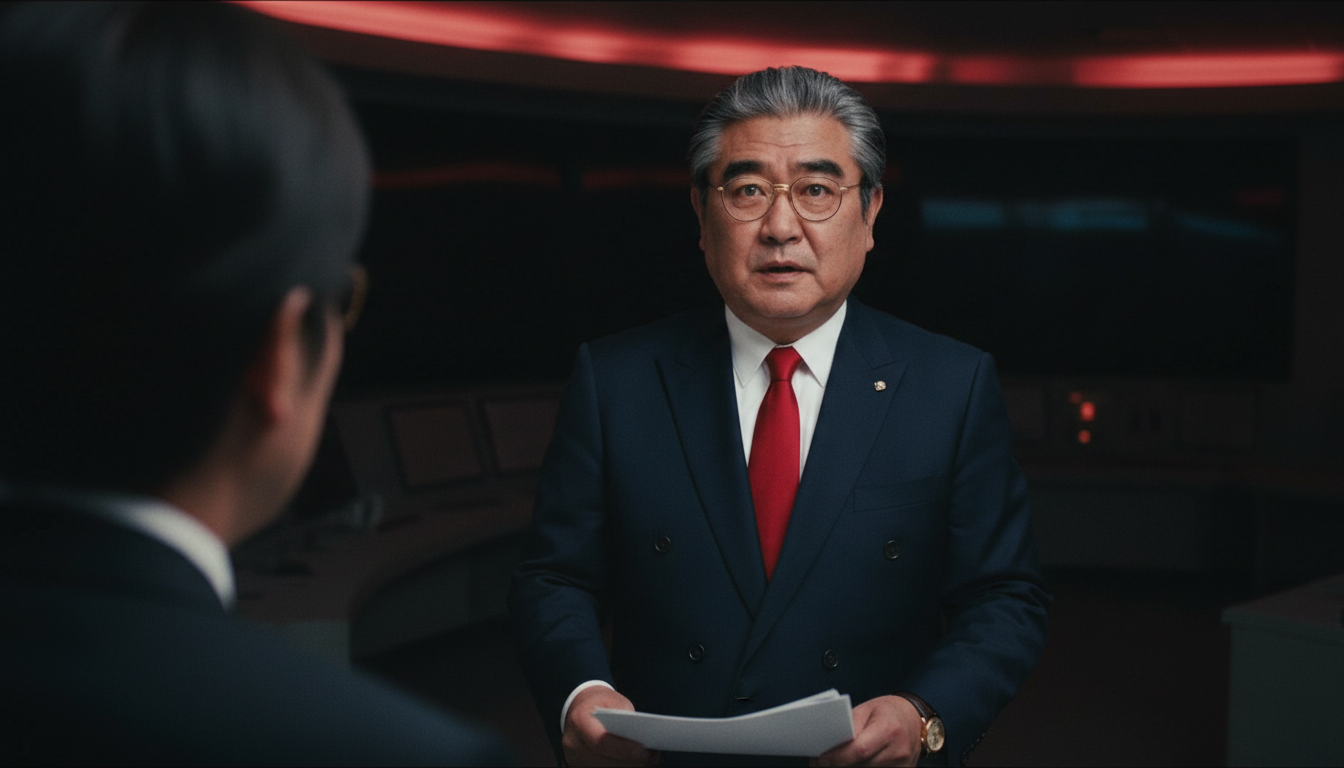
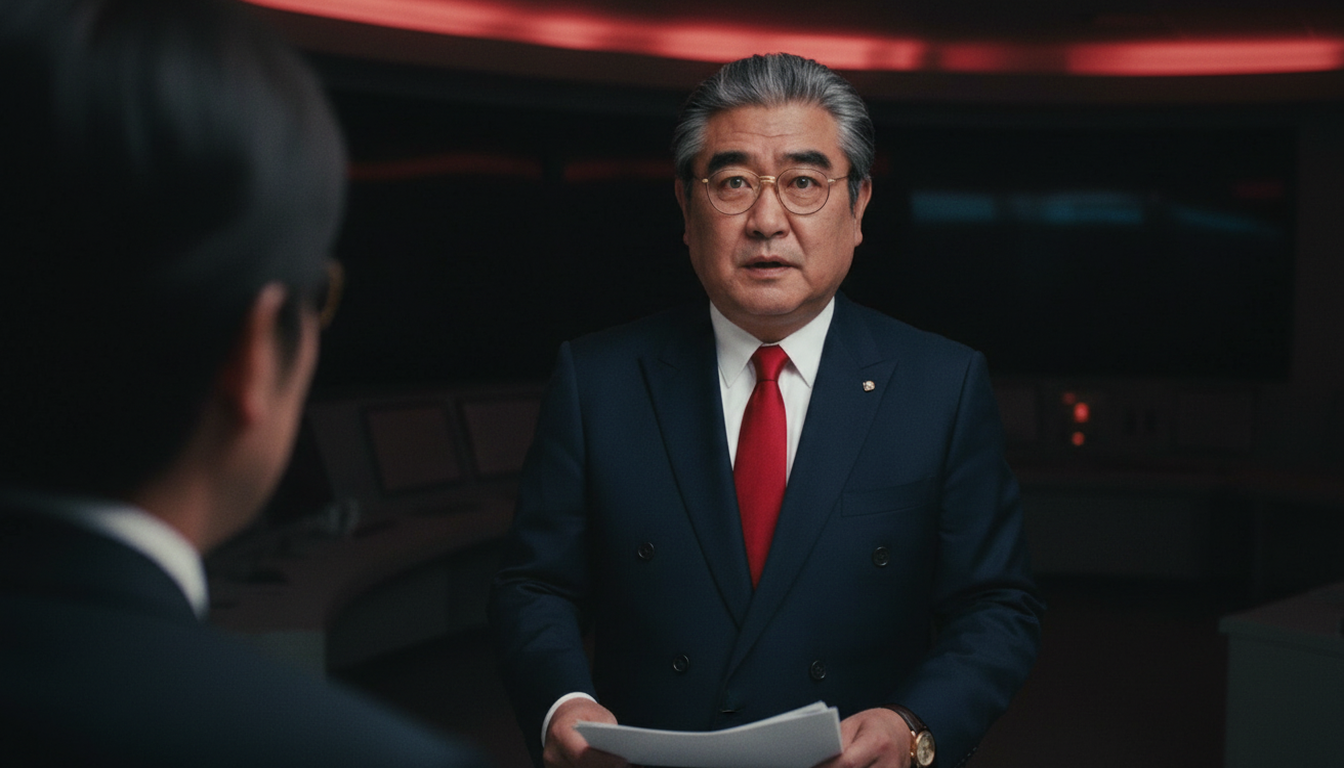
작품② 키프레임 r3: 원경으로 나온 립싱크 4컷 근접 재생성

diff --git a/scripts/build_tsuki_keyframes.py b/scripts/build_tsuki_keyframes.py
@@ -67,6 +67,10 @@ LIGHT_NOTE = {
 }
 # 키프레임 a 검수(2026-10-15): 감정이 약하거나 반대로 나온 컷 — 표정을 문장 맨 앞에 못 박아 재생성
 EMO_OVERRIDE = {
+    "S12d": "FRAMING LOCKED: medium close-up, camera about 1.2 metres from Hikaru, his head and shoulders fill the centre, face about one third of the frame height; Sakura's blurred shoulder at the left edge.",
+    "S19c": "FRAMING LOCKED: medium close-up, camera about 1.5 metres from Shinoda; his head and shoulders fill the centre of the frame, face about one third of the frame height, Washio's blurred shoulder at the right edge; NOT a wide shot of the room.",
+    "S19i": "FRAMING LOCKED: medium close-up from slightly above, camera about 1.5 metres from Shinoda standing; his head and shoulders fill the centre, face about one third of the frame height, Washio's blurred head at the lower right edge; NOT a wide shot.",
+    "S19m": "FRAMING LOCKED: medium close-up from a low angle, camera about 1.5 metres from Shinoda standing and closing his coat; his head and shoulders fill the centre, face about one third of the frame height, the kneeling Washio's blurred hair at the bottom edge; NOT a wide shot.",
     "S10e": "EXPRESSION LOCKED: Washio is ANGRY and domineering — hard glaring eyes, furrowed brow, jaw clenched, NO smile at all; his index finger stabs down on a sheet of paper.",
     "S15i": "EXPRESSION LOCKED: Sakura is CRYING — eyes red and wet with real tears, one tear track on each cheek, lips pressed and trembling, holding the bamboo dragonfly to her chest; NOT smiling.",
     "S18g": "EXPRESSION LOCKED: Washio is TERRIFIED and broken — eyes wide and wet, face grey, sweat on his forehead, mouth slightly open in dread, NO smile; dim red emergency light only.",
